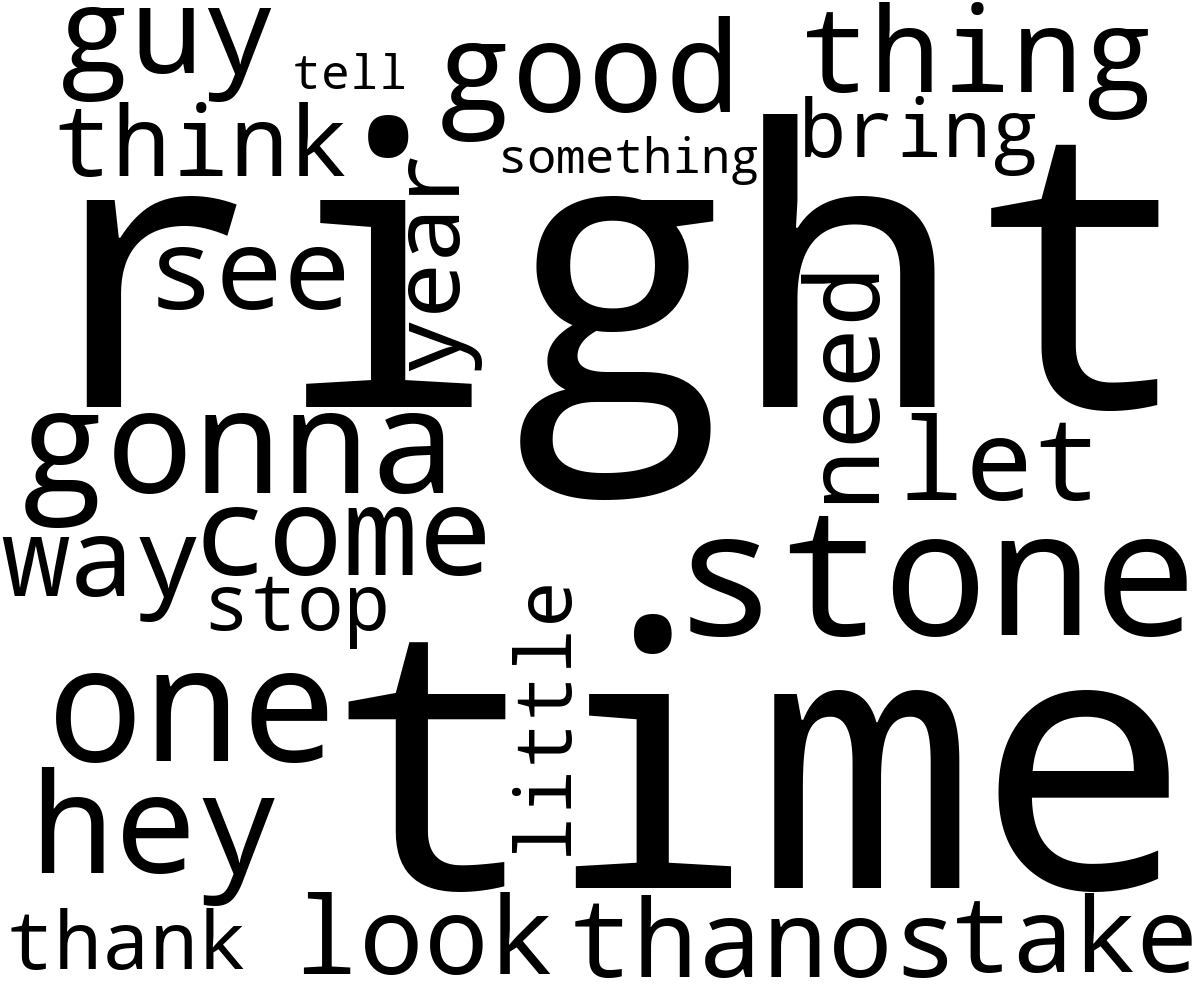
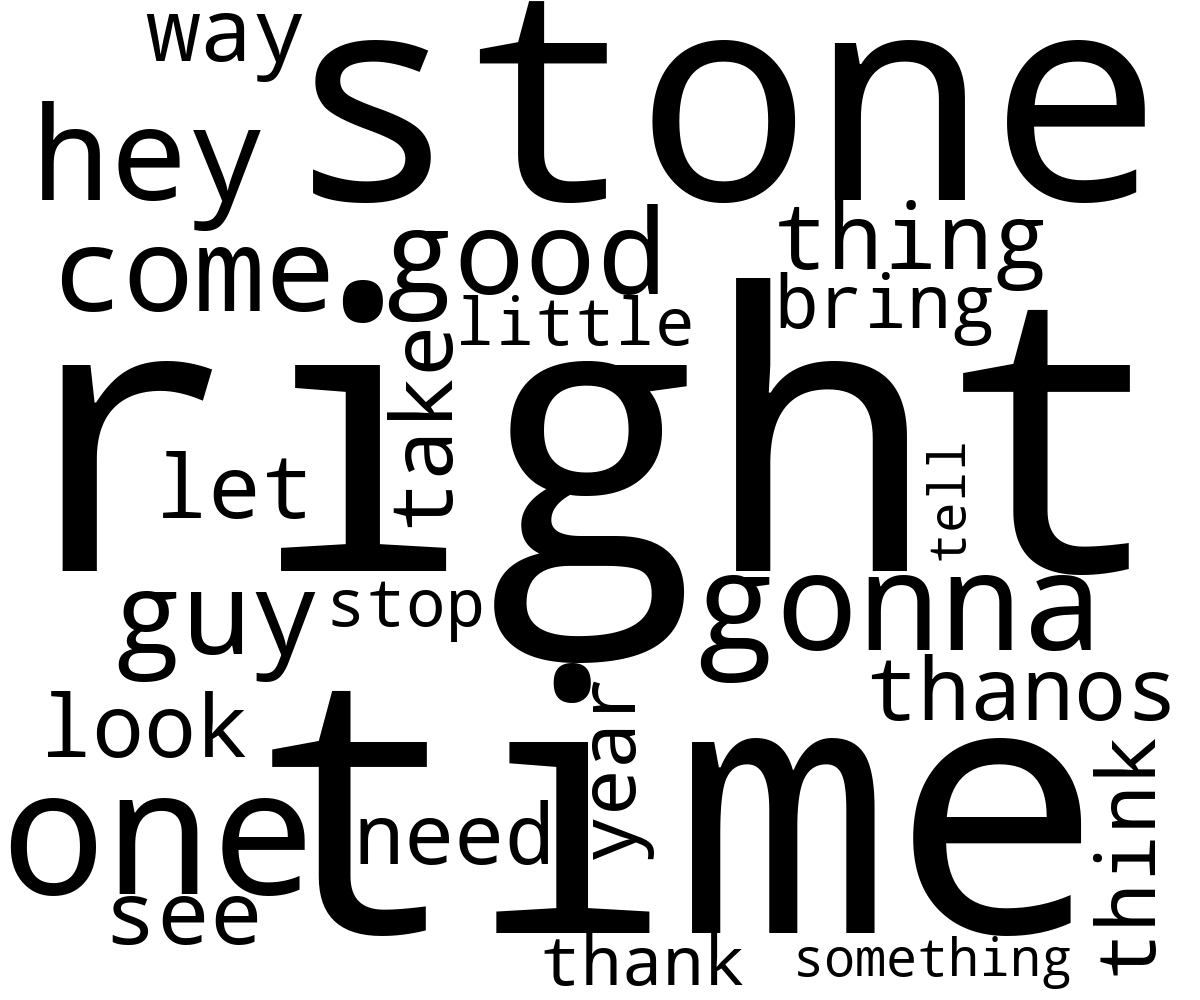
resize cloud output

diff --git a/wordCloud/templates/wordCloud/index.html b/wordCloud/templates/wordCloud/index.html
@@ -1,6 +1,10 @@
+{% load static %}
+<link rel="stylesheet" type="text/css" href="{% static "wordCloud/style.css" %}">
+
 <header>
 <h1>Movie Cloud - content check tool</h1>
 </header>
+
 <body>
 <form method="POST" class="post-form" enctype="multipart/form-data">
 	{% csrf_token %}
@@ -8,6 +12,8 @@
 		<button type="submit" class="save btn btn-default">upload</button>
 </form>
 </body>
+
 <!-- <img src="/media/wordCloud/output.png"> -->
-{% load static %}
-<img src="{% static "wordCloud/images/output.png" %}" alt="cloud">
+<div class="cloud-spot">
+	<img src="{% static "wordCloud/images/output.png" %}" alt="cloud">
+</div>

diff --git a/wordCloud/static/wordCloud/style.css b/wordCloud/static/wordCloud/style.css
@@ -1,0 +1,17 @@
+div.cloud-spot{
+	width: 100%;
+}
+
+h1 {
+	margin: auto;
+}
+
+form {
+	margin: auto;
+}
+
+img {
+	margin: auto;
+	width: 60%;
+	height: auto;
+}

diff --git a/movie_cloud/urls.py b/movie_cloud/urls.py
@@ -23,6 +23,6 @@ urlpatterns = [
 	path('wordCloud/', include('wordCloud.urls', namespace="app_name")),
 ]
 
-if settings.DEBUG:
+#if settings.DEBUG:
 	#urlpatterns += staticfiles_urlpatterns()
-	urlpatterns += static(settings.MEDIA_URL, document_root=settings.MEDIA_ROOT)
+	#urlpatterns += static(settings.MEDIA_URL, document_root=settings.MEDIA_ROOT)

diff --git a/movie_cloud/settings.py b/movie_cloud/settings.py
@@ -28,8 +28,8 @@ DEBUG = True
 
 ALLOWED_HOSTS = []
 
-MEDIA_URL = '/media/'
-MEDIA_ROOT = os.path.join(BASE_DIR, 'media')
+#MEDIA_URL = '/media/'
+#MEDIA_ROOT = os.path.join(BASE_DIR, 'media')
 
 # Application definition
 
